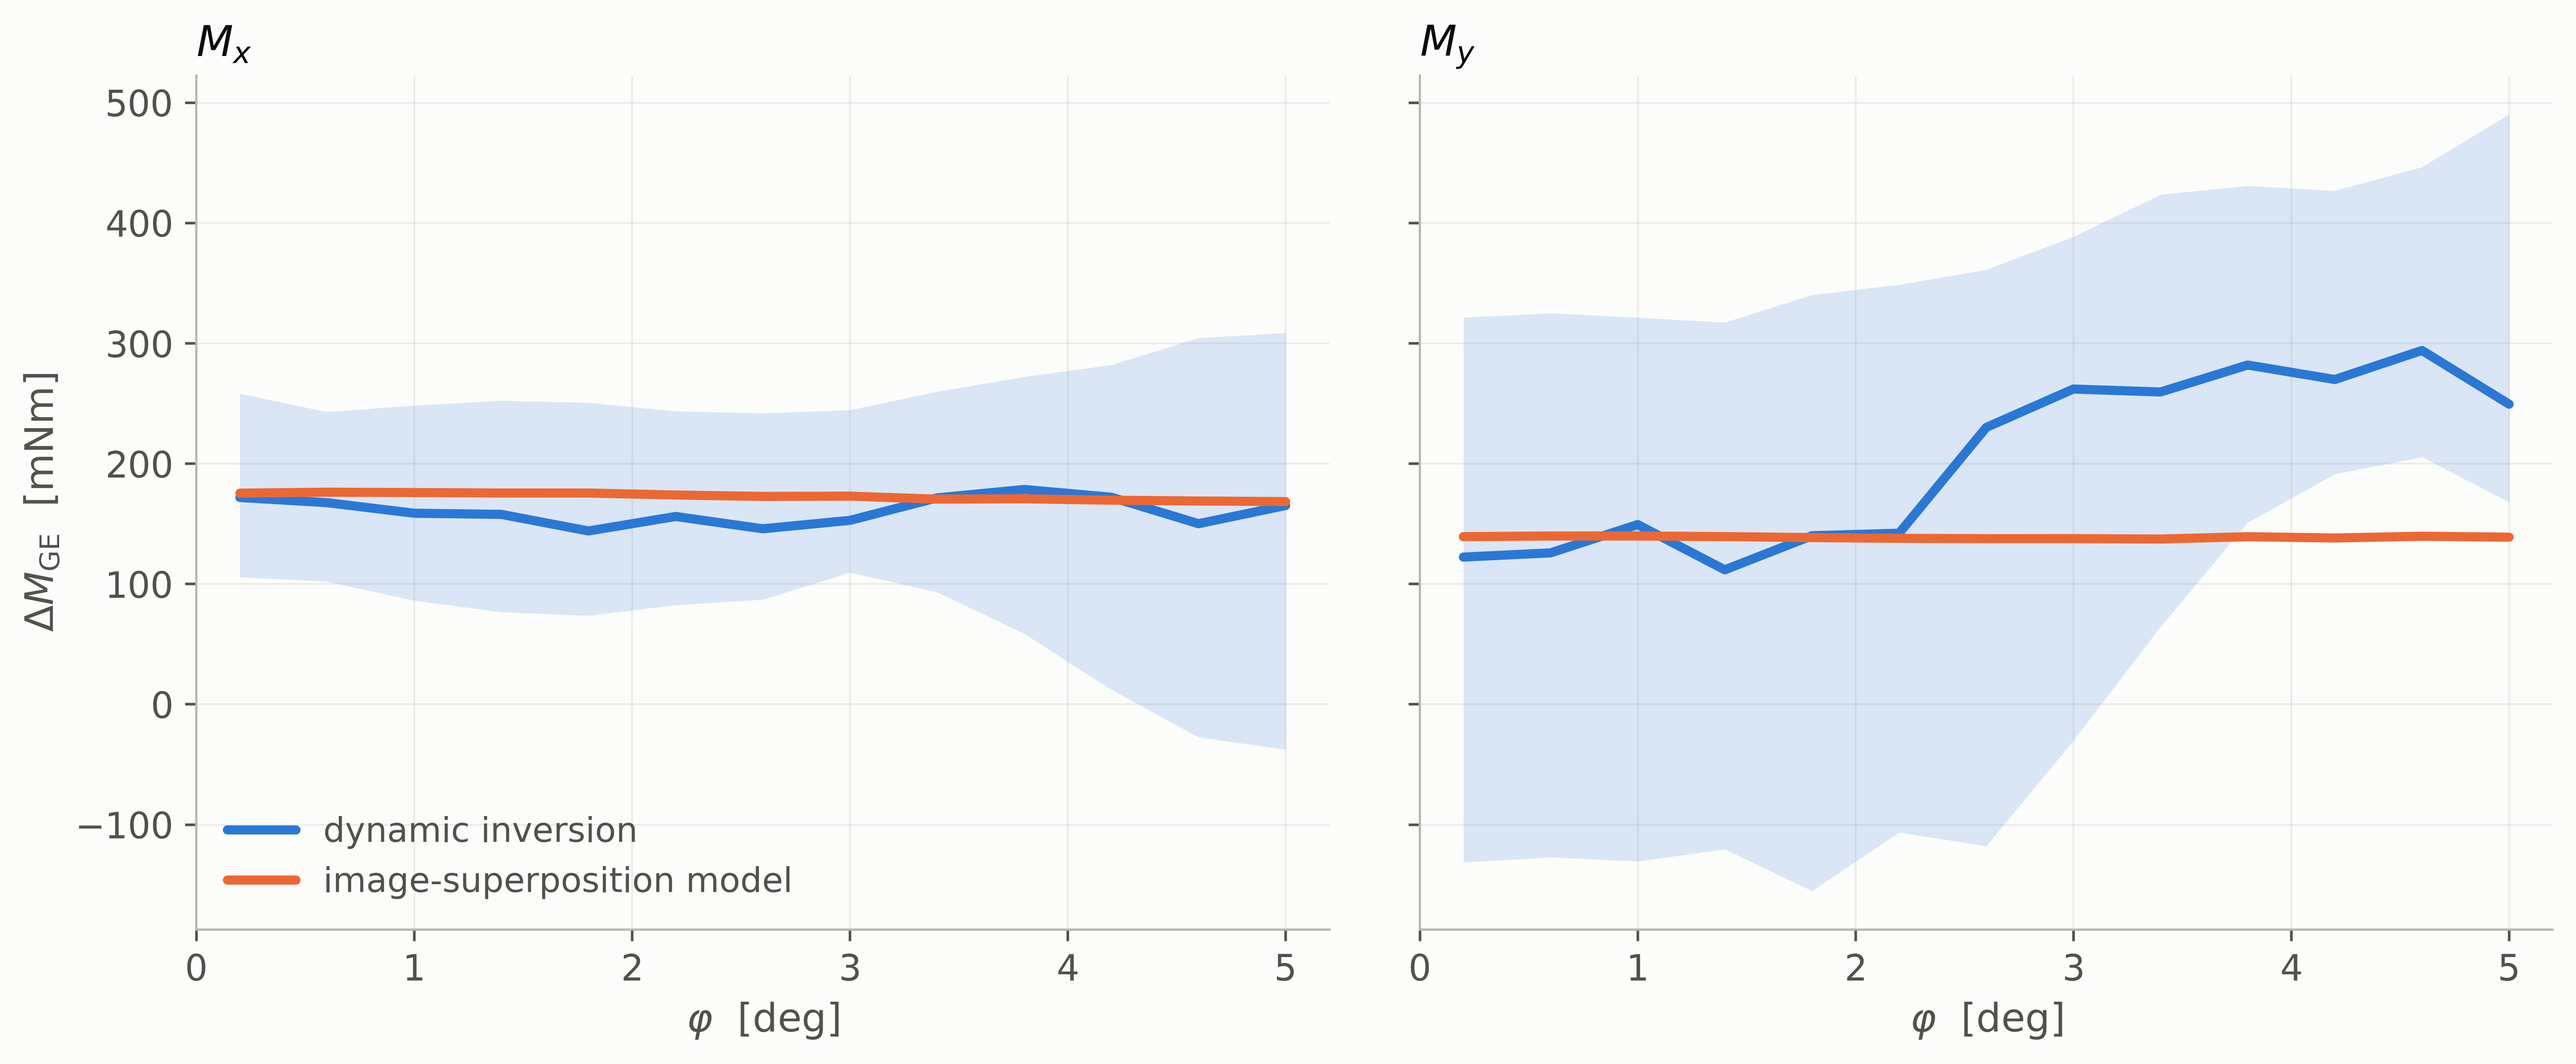
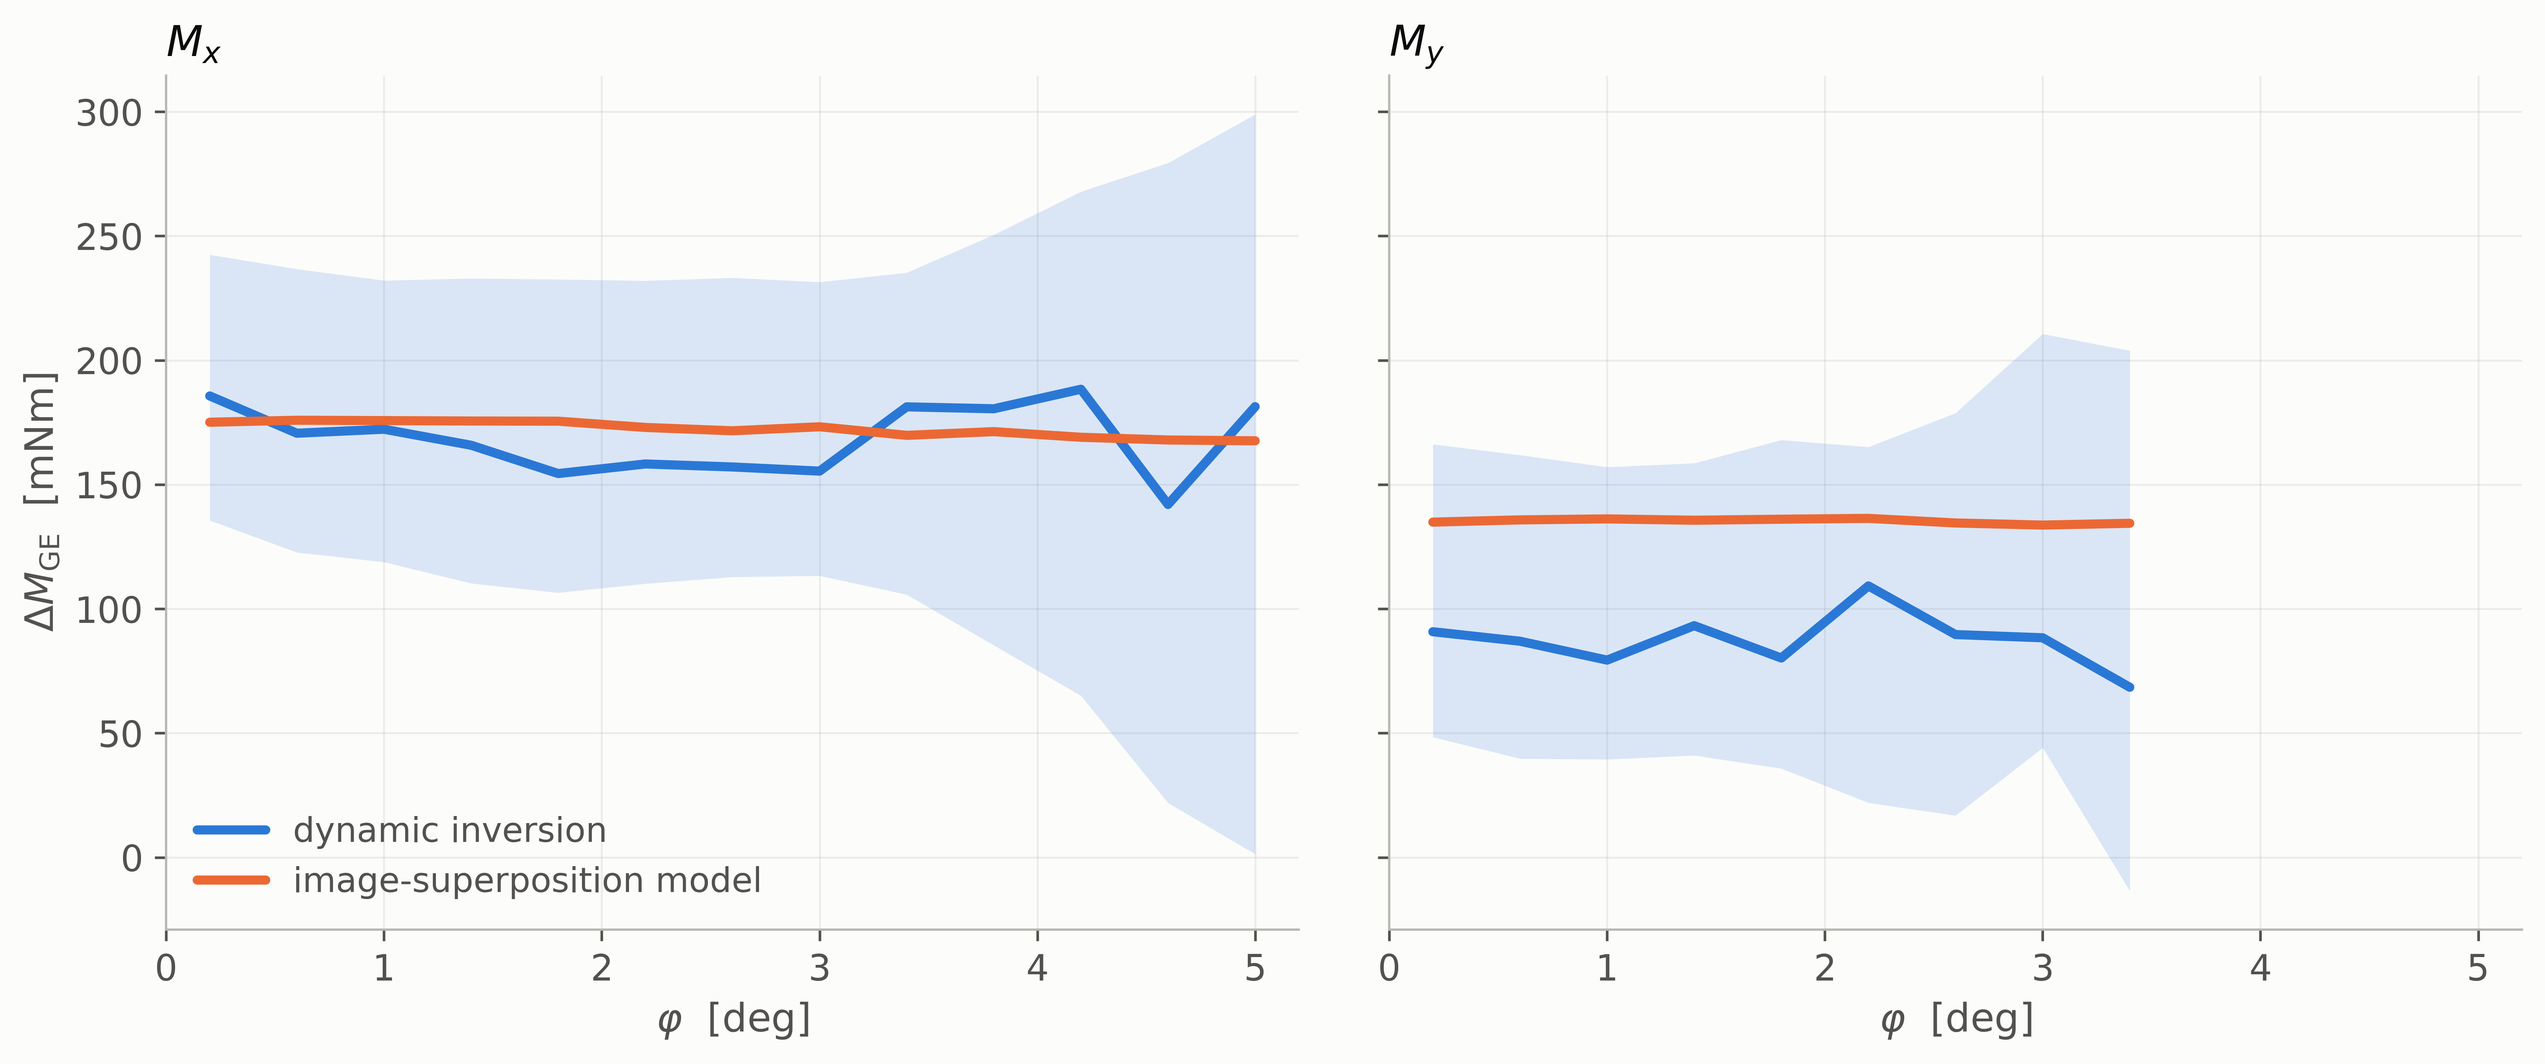
Average the tip directions within each axis, do not pool them
The step I reported on My at 2.4 deg is not a transition in the axis.
It is the two tip directions being mixed in a ratio that changes with
tilt.  My/neg reaches a median 3.1 deg where My/pos reaches 6.8, so the
negative share of the samples falls from 49% at 2.2 deg to 45 at 2.6
and 14 by 4.2, and since the two directions sit 470 mN.m apart the
pooled median slides towards the positive one.  Neither direction's own
median moves at all across that range -- pos holds 310-345 and neg
-120 to -185 throughout.  The same mixing is what made the pooled band
three times wider on My than on Mx, where the directions differ by only
80 mN.m and the shares stay at 48-52% to the end.

Averaging the directions per bin, which is the combination the
identification actually forms, and stopping where the shorter direction
runs out:

    Mx, 0.2-5.0 deg   residual median  -5.2, RMS 14.9, max 26,  9%
    My, 0.2-3.4 deg   residual median -45.3, RMS 49.0, max 66, 36%

Both are flat, with no step on either.  Mx sits on the model; My sits
about 45 mN.m below it and keeps the wider band, 118-217 against
107-129 -- the axis whose rigid-body balance does not close.

diff --git a/analysis/ge_dynamics_by_axis.py b/analysis/ge_dynamics_by_axis.py
@@ -3,28 +3,38 @@
 
 The two axes are different experiments and pooling them hides both.
 They tip about different contact lines (140 mm against 110), the model
-predicts different moments (about 175 mN.m against 138), and
-analysis/rate_band_check.py finds the rigid-body balance closing on Mx
-(ratio 0.9-1.1 below 3 Hz) and not on My (1.8-2.0).  Reported
-separately:
+predicts different moments (about 172 mN.m against 135), and the two
+tip directions do not reach the same tilt on both axes:
 
-    Mx, 0.2-5.0 deg    residual median -17.2, RMS 16.6, max 32
+    Mx/pos  median excursion 5.8 deg     Mx/neg  7.4
+    My/pos                   6.8         My/neg  3.1
+
+Each panel is the average of the two tip directions, which is the
+combination M_ff = sign * 0.5 * (M_pos + M_neg) the identification
+forms, and it is not optional here.  The directions carry an
+antisymmetric term -- 470 mN.m apart on My, 80 on Mx -- so POOLING them
+instead makes the curve follow whichever direction still has samples.
+On My that manufactures a step: the pooled median jumps from 142 to 230
+mN.m between 2.2 and 2.6 deg while neither direction's own median moves
+at all, only their mix, 49% negative becoming 45 and then 14 by 4.2
+deg.  The same mixing, not any property of the axis, is what makes the
+pooled band three times wider on My.
+
+Averaged properly, and stopping where the shorter direction runs out:
+
+    Mx, 0.2-5.0 deg    residual median  -5.2, RMS 14.9, max 26
                        9% of the model, 66-70 runs in every bin
-    My, 0.2-2.2 deg    residual median  -6.2, RMS 15.0, max 28
-                       11% of the model, 67-70 runs in every bin
-    My, 2.6-5.0 deg    residual median +124.3, RMS 126.9, max 154
+    My, 0.2-3.4 deg    residual median -45.3, RMS 49.0, max 66
+                       36% of the model, 52-70 runs
 
-So My is not a bad axis.  Below 2.4 deg it agrees with the model as
-well as Mx does over its whole range.  It then departs abruptly: +4.3
-mN.m at 2.2 deg becomes +92.5 at 2.6, with 67 and 66 runs contributing,
-so the transition is not the sample thinning -- that comes afterwards,
-as the runs stop reaching further.  Above it the inversion reads 90-150
-mN.m more than the model, the direction the band ratio predicts, the
-gyro implying more moment than the instruments show.
+So Mx tracks the model over its whole range and My sits about 45 mN.m
+below it, flat, with no step anywhere.  My also carries the wider band
+throughout, 118-217 against 107-129, and it is the axis whose 1-3 Hz
+rigid-body balance does not close (analysis/rate_band_check.py, ratio
+1.8-2.0 against 0.9-1.1).
 
-The band is the interquartile range across runs, dispersion rather than
-an uncertainty on the median.  It is about three times wider on My than
-on Mx at every tilt, which is the same fact the band ratio reports.
+The band is the interquartile range over direction pairs, dispersion
+rather than an uncertainty on the median.
 
 Usage:
   HD_DERIV=bwk:3 HD_GAIN=0.890 HD_DUMP=hd.npz \
@@ -52,6 +62,7 @@ d = np.load(SRC)
 rid, phi = d['rid'], d['phi']
 inv, mod = d['resid'] + d['model'], d['model']
 axis = d['axis'][rid]
+tip = d['tip'][rid]
 
 plt.rcParams.update({
     'font.size': 12, 'axes.labelsize': 12,
@@ -74,14 +85,29 @@ for k, axn in enumerate(('Mx', 'My')):
     nrun = np.zeros(len(CTR), int)
     for i, (lo, hi) in enumerate(zip(EDGES[:-1], EDGES[1:])):
         m = sel & (phi >= lo) & (phi < hi)
-        r = np.unique(rid[m])
-        if len(r) < MIN_R:
+        mp, mn = m & (tip == 'pos'), m & (tip == 'neg')
+        # Average the two tip directions rather than pooling them.  The
+        # two carry an antisymmetric term -- 470 mN.m apart on My, 80 on
+        # Mx -- and they do not reach the same tilt: My/neg stops at a
+        # median 3.1 deg where My/pos goes to 6.8.  Pooling therefore
+        # slides towards the positive direction as the tilt grows and
+        # manufactures a step: the My pooled median jumps from 142 to
+        # 230 mN.m between 2.2 and 2.6 deg while NEITHER direction's own
+        # median moves, only their mix, 49% negative becoming 45 and
+        # then 14 by 4.2 deg.  The same mixing sets the width of the
+        # band.  Both directions must therefore be represented, and the
+        # curve stops where the shorter one runs out.
+        if (len(np.unique(rid[mp])) < MIN_R
+                or len(np.unique(rid[mn])) < MIN_R
+                or mp.sum() < 20 or mn.sum() < 20):
             continue
-        per = [np.median(inv[m & (rid == j)]) for j in r]
-        med[i] = np.median(inv[m])
+        per = [0.5 * (np.median(inv[mp & (rid == j)])
+                      + np.median(inv[mn & (rid == k)]))
+               for j in np.unique(rid[mp]) for k in np.unique(rid[mn])]
+        med[i] = 0.5 * (np.median(inv[mp]) + np.median(inv[mn]))
         q1[i], q3[i] = np.percentile(per, [25, 75])
-        mm[i] = np.median(mod[m])
-        nrun[i] = len(r)
+        mm[i] = 0.5 * (np.median(mod[mp]) + np.median(mod[mn]))
+        nrun[i] = len(np.unique(rid[m]))
     ok = ~np.isnan(med)
     a_.fill_between(CTR[ok], q1[ok], q3[ok], color=DYN, alpha=0.16, lw=0,
                     zorder=2)
